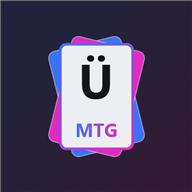
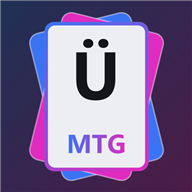
v20: cartas do icone maiores

diff --git a/sw.js b/sw.js
@@ -20,8 +20,9 @@
  * v16: aviso de que o Tapps Tracker precisa de ter registado um jogo para encontrar a coleção.
  * v17: resumo da sincronização com a verificação dos decks contra a coleção (leitor próprio da coleção na ponte).
  * v18: nova paleta (azul, cinzento escuro e fúcsia) e separador Coleção (galeria com filtros, como no Arena).
- * v19: ícones redesenhados na paleta (gerar-icones.ps1). */
-var CACHE = 'uligod-mtg-shell-v19';
+ * v19: ícones redesenhados na paleta (gerar-icones.ps1).
+ * v20: cartas do ícone maiores (preenchem o fundo como os outros ícones). */
+var CACHE = 'uligod-mtg-shell-v20';
 var SHELL = ['./', 'index.html', 'manifest.webmanifest', 'icon-192.png', 'icon-512.png', 'icon-maskable-192.png', 'icon-maskable-512.png'];
 
 self.addEventListener('install', function (e) {

diff --git a/index.html b/index.html
@@ -388,7 +388,7 @@ nav.tabs button { position: relative; }
 'use strict';
 
 var APP_NAME = "Üligod's MTG Deck Builder";
-var APP_VERSION = "19";   // tem de coincidir com o número no CACHE do sw.js (uligod-mtg-shell-vNN); subir em cada atualização
+var APP_VERSION = "20";   // tem de coincidir com o número no CACHE do sw.js (uligod-mtg-shell-vNN); subir em cada atualização
 var SUPABASE_URL = 'https://xvaegmwhzuclocdaorxm.supabase.co';
 var SUPABASE_KEY = 'sb_publishable_EIZ233QNFmZsb7EzKXCPpQ_sVrdQxIE';
 var sb = window.supabase.createClient(SUPABASE_URL, SUPABASE_KEY);
